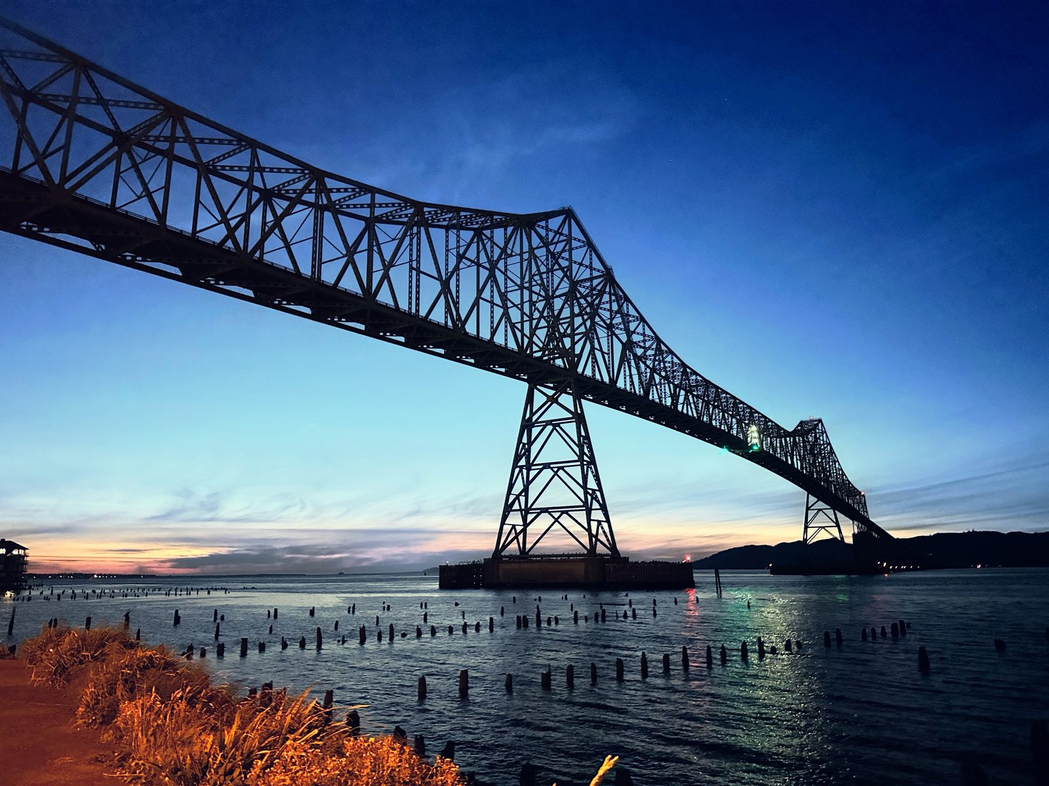
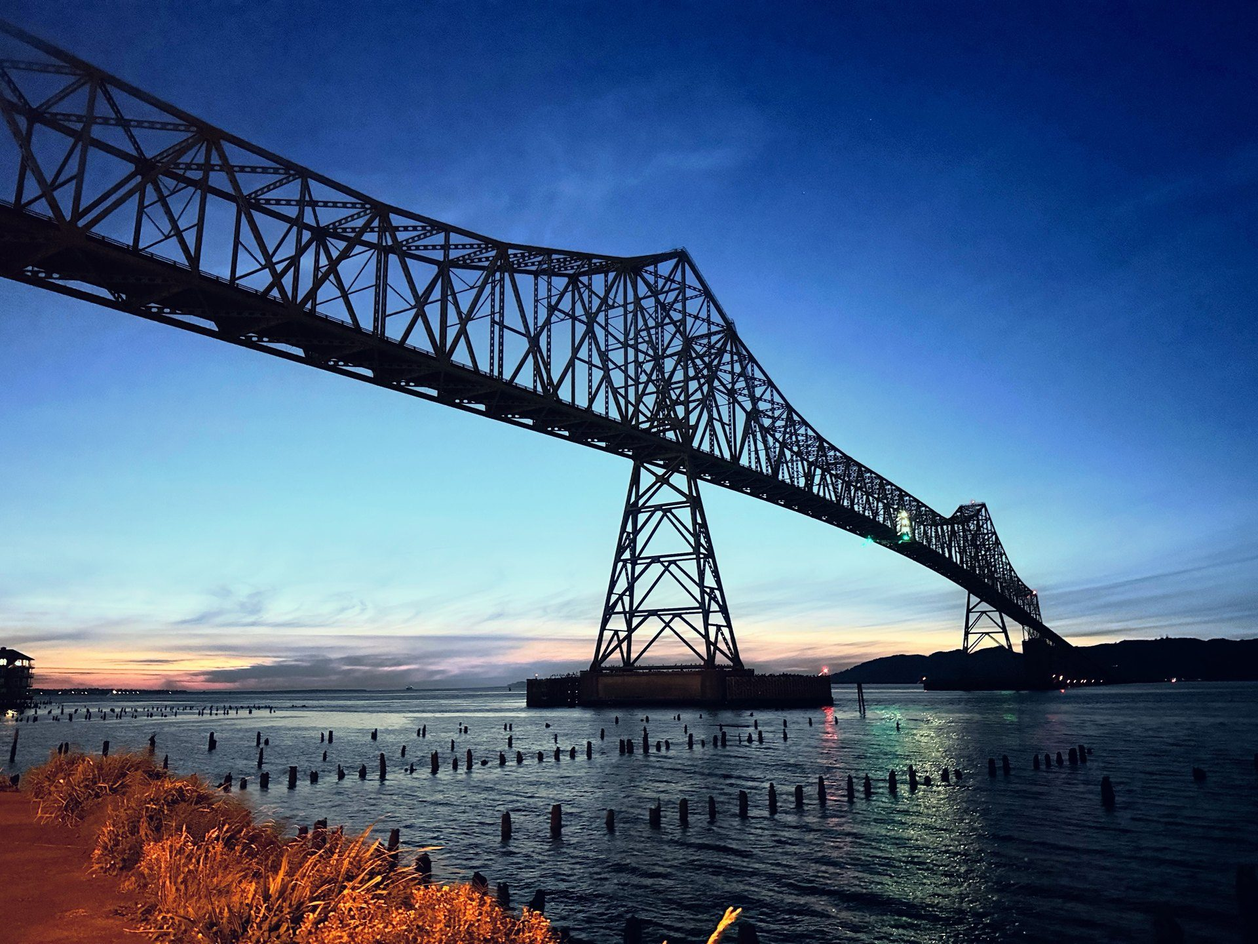
V39 (SW ccl-v39-photo-fix): photo audit — full-viewport backgrounds upgraded 800->1920px from the same Commons-verified originals (ship, Oscar B ferry, courthouse, Rainier dock); bg-dusk-2/4/7 re-rendered at 1920 from pool originals; bg-dusk-5 corrected to the actual USFWS Interstate Bridge sunset i

Changed region(s): [[0.6562, 0.4933, 0.6875, 0.5242], [0.625, 0.4625, 0.6562, 0.4933], [0.2812, 0.925, 0.3125, 0.9558]]

diff --git a/sw.js b/sw.js
@@ -18,7 +18,7 @@
  */
 'use strict';
 
-var VERSION = 'ccl-v38-cascade-phone-thumb'; // v38 = phone thumb fix 2026-11-05 (Travis, from the v37 phone screenshot: the card's 112px side-sliver thumbnail sliced the title text — 'Cascade C…' — and looked broken; phone (≤640px) now swaps via <picture> to a dedicated mobile title-card banner, img/cascade-thumb-mobile.jpg 600x206, stacked from the desktop title card's two fully-readable bands — the real site's board band + the navy title block — shown as a full-width top strip over a slim eyebrow/title/CTA body row, copy line folded away on phone since the banner carries it; desktop ≥641px rendering pixel-unchanged) // v37 = cross-promo shrink 2026-11-05 (Travis, reviewing the v36 screenshots: the Events & More card was far too big — it read like an entire page, not one of the small cards sponsors pay for; the card is now a compact horizontal mini-card, cropped screenshot thumbnail 300x170 left + text right, ~172px tall on desktop, slim thumb on phone; the drawer's separate 'More from Nomad' section is also gone per his follow-up — Cascade is now one tiny muted text link under About in the drawer; footer link unchanged; the card is styled as Cascade's OWN ad unit (deep navy + orange, its type feel) with a purpose-built title-card thumbnail (fresh capture of the real Cascade site + navy title block) so it reads as another site's advertisement, not a piece of CCL; paid sponsor inventory untouched, marquee untouched) // v36 = cross-promo 2026-11-05 (Cascade Controls Jobs, Nomad's other project — three honest house placements: a screenshot card in Events & More below the services directory, a "More from Nomad" drawer entry, and a slim footer link; paid sponsor inventory untouched, marquee untouched) // v35 = V10 corrective 2026-11-05 (the strip slot-width lock, shipped in v34, could engage on a transient under-measurement and lock a slot narrower than its content; slot widths are now derived from the content itself (ruler-measured text in each element's own font + the item's chrome) because Chromium's intrinsic box measurement of the animated flex strip can return half the true width and poison the lock; validation passes only ever grow slots, and the engagement window stretches to 90s for slow data modules) // v34 = V10 2026-11-05 (saver bottom overlap fixed — quiet line + photo credit share one .saver-bottom container that stacks in normal flow at ≤760px and short landscape, so the two-line sponsor line can never cross the cursive credit again; tile stream lifted clear of the taller zone; glance marquee smoothness, diagnosed this time — clone sync no longer rebuilds innerHTML inside the animating layer, strip slot widths are measured at the value's 36ch ceiling and locked identically across both halves so text changes can never resize the track mid-loop, keyframes hold translate3d) // v33 = V9 2026-11-05 (the commute card — Travis's last pre-ship addition, top of Travel above the roads card: pickable county town (St. Helens default) → St. Johns / Downtown Portland / Longview, typical drive time fetched live from the free OSRM service, labelled "Typical drive — no live traffic" EN/ES and never presented as live conditions; picks + per-pair last-good cache in ccl-commute-v1, failed fetches fall back to the cached reading with its checked time; registered in CCLPins as drive-card, plus finder + drawer entries; DESKTOP scroll fix — Travis, from a mid-scroll photo: at ≥900px the tabbar and the green Live view bar no longer stick, they scroll away with the page; the sponsor rail cards stay sticky by his explicit approval, offset 112px → 20px now that the bars don't hold the top; phones untouched) — SHIPPED TO LIVE with the full redesign 2026-11-05 // v32 = V8 fixes 2026-11-05 (hero photo runs CONTINUOUS to the green sticky bar on desktop — the hero gains the tabbar's 57px as bottom padding and the tabbar pulls up over the picture with a transparent band, the four tab pills floating in dark glass; the bone "gray bar" is gone; phones untouched — bottom tab chrome, hero already meets the green bar; masthead pills slimmed ~25-30% above 560px — Display/Dark padding 10px 16px -> 7px 12px, type .92 -> .85rem, clock 1.18 -> 1.02rem, 40px min height kept, v7's 44px phone circles untouched; NO pin discs on the scrolling strip — the .saver-pin buttons the saver module used to grow inside the canonical strip tiles are deleted in app.js + CSS, strip items are icon + label + value only, and answer pinning lives solely in the Community Screensaver card's chips writing the same CCLPins store — verified end-to-end (chip click -> store -> saver stream tile); rails CONFIRMED sticky — .rail-zone already spans each view's full height with position:sticky cards at top:112px, proven this pass with a two-depth geometry probe (cards hold exactly 112px at scrollY 1500 while their container moves the full 1500; the headless pipeline still can't rasterize a scrolled frame — documented since v4); no rail change, no duplicated house cards) // v31 = V7 fixes 2026-11-05 (the Bend band is Mt. HOOD now — U.S. Forest Service public-domain Trillium Lake photo, pool-verified via the Commons API and visually confirmed, replacing the St. Helens shot Travis caught; saver stream tiles at parade scale — ~41vw wide, type x1.45, loop slowed to 150s so the drift stays stately and the tiles no longer all fit across a TV; phone masthead compacts — Display + Dark become matched 44px circular icon buttons at <=560px, labels return on wider screens; dark-mode background audit — More's St. Helens dusk (mud) replaced by the golden-hour Columbia shoreline (bg-dusk-6), every dark background now a river evening) // v30 = V6 refinements 2026-11-05 (masthead Display button — display mode one tap from first paint on every view, same CCLOpenSaver opener as the drawer + Events & More entries; screensaver answers SCROLL — the pinned answers stream right-to-left on the glance strip's duplicated-track technique, values patched in place so the 5s refresh never restarts the stream, one pin or reduced motion stays static; the saver's quiet sponsor line is now a rotation marched by the photos — quietIdx advances once per photo change, sponsor line → photo invitation → blank beat; mobile sponsor spacing — at ≤760px Today's founding panel keeps only the invitation up top, the County Watch + nonprofit house cells move down into the flow before Tonight & Tomorrow and before the County Briefing, moved never duplicated, desktop untouched; Bend run summit pair — the two Government Camp cameras nearest the PASS_POINTS.govcamp anchor by haversine over the snapshot's own lat/lon lead the Mt. Hood section large with their distance from the summit, the rest stay in the strip; photo-top spread, tastefully — the Events card's photo-header pattern reaches the Bend card (Cascade peak band), the fishing answer card (golden-hour boats + fishing-boat-sunset twin) and the services directory (Cannery Pier boardwalk), and photo-behind-text reaches the Community Screensaver card (river-mouth panorama under a bone scrim) and Featured Local (1973 Columbia-mouth sunset behind glass cards) — six treated cards total, utility cards stay clean; directory price $9/mo · $79/yr marked APPROVED in the business plan, UI still price-free for the founding launch) // v29 = micro-business directory 2026-11-05 (business plan §6 Phase 2 addendum: a "Local services" directory in Events & More, below Featured Local — plain hairline rows for one-person services (child care, cleaning, handyman, pet care, yard & garden, tutoring, moving & hauling, other), category chips filter the rows, seeded with the ONE real founding business Oregon Trail Lanes; empty categories carry varied honest "no listings yet — free during the founding launch" states, never invented businesses; the one invitation card + List-your-service CTA ride the sponsor request form (review → publish, no checkout); NO price shown for this tier — the proposed price is PROPOSED in the business plan pending Travis's approval; honesty line in-section: listings are advertisements, not endorsements, check references for in-home services; EN/ES chrome + per-category EN/ES empty states re-rendered on the language toggle) // v28 = photo form live 2026-11-05 (PHOTO_FORM_URL swapped from the placeholder to the real Google Form) // v27 = v5 revision 2026-11-05 (clean hero — photo + name + welcome line only, chips/tagline/promise retired; the courthouse logo is the menu button opening a frosted slide-out drawer with every view + section jump, screensaver/sponsor entries and the Share-your-county-photo invitation; pins unified onto the ONE generic store window.CCLPins / ccl-pins-v1 — pin any card in any view and a LIVE COPY renders at the top of Today, originals never move; PWA finish — completed manifest (bone/forest, maskable courthouse icon), favicon set + apple metas + per-theme theme-color, ONE dismissible install card in Events & More; courthouse logo replaces the pine as the brand mark everywhere; saver fix — long Next Event names step down in size and wrap whole instead of ellipsizing) // v26 = Community Screensaver 2026-11-05 (ambient display mode: community photo pool crossfading slowly full-screen — the one place photo cycling belongs — big clock/date, pinned live answers in across-the-room type, unattended-safe, ?display=1 TV bookmark; pins on the glance strip items + Events & More card chips, localStorage ccl-saver-pins-v1; photo submissions via PHOTO_FORM_URL placeholder + human review gate, pool in data/community-photos.json) // v25 = v4 tide-glance correction 2026-11-05 (the strip's river item leads with the tide in plain words — "Incoming tide · High 2:08 PM" from the same NOAA St. Helens predictions the tides card loads; the Port Westward gauge level drops to the sub-line; tile now links to the tides card; EN/ES both) // v24 = v4 revision 2026-11-05 (theme toggle moved beside the clock; strip smoothness — backdrop blur removed from the animated strip, right-sized clones, signature-batched sync; first-paint pass — reveal never hides on-screen cards, non-Today backgrounds lazy-attached; Today backgrounds de-bridged — Rainier dock day / river-mouth panorama dusk, hero keeps the bridge; sponsor rails on Today + Events & More + a top sponsor card on Events & More; green bar reads "Live view"; natural stagger — v2 offset margins deleted, pairs take natural heights, Travel/Outdoors balanced columns) // v23 = v3 revision 2026-11-05 (continuous full-width glance strip; calm per-view photo background per the portfolio pattern; glass cards unchanged) // v22 = v2 revision 2026-11-05 (full-page photo background + all-glass cards + staggered pairs) // v21 = Redesign prototype 2026-11-05 (fall palette, ticker, sponsor system, dark mode — sandbox preview only) // v20 = Sponsor form swap 2026-11-05 (SPONSOR_FORM_URL live in app.js — the founding-sponsor Google Form replaces the interim mailto button in About/support); v19 = WS-1d follow-up 2 2026-11-04 (map-tap close for the layers panel listens on the map container in the CAPTURE phase — the v18 bubble-phase listener was measured live still failing when the tap landed on a marker, because Leaflet stops marker clicks from bubbling; capture reaches the container first); v18 = WS-1d follow-up (DOM-level map-tap close, bubble phase — superseded by v19); v17 = WS-1 2026-11-04 (school-closures board — curated data/schools.json, dormant-ready, EN+ES dynamic status labels; About / founding-sponsor interest section — SPONSOR_FORM_URL config in app.js, interim mailto capture, nothing for sale; accessibility pass from a live Lighthouse run (a11y 0.92): --accent-2 darkened #0d8a5f→#0b7a52 for contrast, role=tablist misuse fixed to role=group + aria-pressed sync on the five toggle groups, lang-btn label/name mismatch removed, chip/button tap targets raised to ≥36px; WS-1d same publish: map layers panel collapsed by default — Leaflet collapsed:true + tap-map / tap-toggle-again close wiring, mobile caps ≤70vw + max-height scroll + compact rows, 44px toggle); v16 = Fishing answer card 5-day pick 2026-11-04 (When row: Today..+4 with weekday+date chips in America/Los_Angeles; days +2..+4 are labeled outlooks — salmon: heatModel at the future date with a ×0.8/day-beyond-tomorrow confidence decay on the stretch score before the tracker's own thresholds, outlook why from today's counts; steelhead: the same index in forecast mode — NWS QPF through the rain-to-river mapping for flow/clarity on every river kind, that day's forecast for cold/weather — why led by "Early call from the forecast"; Forecast/Outlook tag beside the pill; NOAA current predictions fetched 6 days out so best windows quote for +2..+4; ES chip chrome; index card, tracker gate/maths for today, steelhead weights and day-plan segment logic unchanged); v15 = strip label fit stages 2026-11-04 (the anchor fit check is now staged and 2D: full labels → John Day drops to its own line (suffixes kept) → suffixes shed → ticks only; measured live at 360px: one-line labels collide ~55px, bare names ~11px, the split layout fits; the check also re-runs when the Outdoors view is shown, since the strip renders inside a hidden view where it cannot be measured); v14 = strip label fit fix 2026-11-04 (the anchor fit check sheds the river-mile suffixes before dropping labels; same build as v13 otherwise); v13 = Fishing answer card + Salmon Tracker declutter 2026-11-04 (intent-first answer card at the top of the fishing section: Salmon/Steelhead × stretch-or-river × Today/Tomorrow chips, one GOOD/FAIR/POOR glance composed only from the tracker surface, the steelhead index's own per-day verdicts, and the day plan's best segment; choices persist; tracker card decluttered — intro + basis moved into the Why expander, verdict face shortened to one sentence, heat strip labels cut to three anchors with a mechanical no-overlap fit check, towns as bare ticks, one county zone label, one-line legend, gray=no-signal caption kept; day-plan source notes shortened; EN+ES chrome); v12 = Steelhead Day Index 2026-11-04 (Outdoors fishing section: per-river Good/Fair/Poor day for the Wilson, Nehalem, NF Nehalem, Big Creek, Gnat Creek, Klaskanine, Clatskanie and Scappoose from run timing, USGS gauge flow + typical range, MRMS basin-rain clarity model, NWS freeze/weather factors, first light + general Oregon angling-hours window; fetcher steelhead.json full-run only; EN+ES chrome); v11 = Facebook public events merge 2026-11-04 (data/fb-events.json from the FB events checker merges client-side into the calendar events — calendar wins title+date collisions; FB-only rows wear a Facebook tag and link to the event page; Tonight & tomorrow + glance tile merge too; EN+ES source note); v10 = County Briefing visual front 2026-11-04 (briefing card renders designed rows from the same structured pass that builds the copied note; the raw text box is gone — copy/share/speech text byte-identical; EN+ES note wording adjusted); v9 = Day-plan copy polish 2026-11-04 (anchor-strong wording follows the actual sequence; tomorrow line merges same-method runs); v8 = Salmon Tracker UX build + GoatCounter beacon 2026-11-04 (verdict-first GOOD/FAIR/SLOW for the home stretch, single-hue heat strip + toggleable map heat layer, one-tap Why, method-switching day plan from NOAA CO-OPS current predictions at Walker Island with tide-curve fallback; invisible GoatCounter analytics beacon; EN+ES chrome); v6 = Fish counts + Salmon Tracker 2026-11-04 (Bonneville/The Dalles/John Day counts card + measured-window wave tracker, Outdoors view; EN+ES chrome); v5 = Build batch 2026-11-04 (My Route camera strip, incident honesty + verdict scope fix, route-ahead forecast, ships passing-soon ETAs, Bend run pass card; EN+ES); v4 = Copy sweep 2026-11-04 (privacy-reassurance boilerplate removed, EN+ES); v3 = Feature audit 2026-11-04 (Near-me popup fix); v2 = Redesign (view navigation + light modern theme)
+var VERSION = 'ccl-v39-photo-fix'; // v39 = photo audit 2026-11-05 (Travis waived review: license/caption/quality/crop pass over every live image — full-viewport backgrounds upgraded 800->1920px from the SAME Commons-verified originals (ship, Oscar B, courthouse, Rainier dock); bg-dusk-2/4/7 re-rendered at 1920 from pool originals; bg-dusk-5 CORRECTED — the file was actually a second crop of the Rennett Stowe fishing-boat photo while its screensaver credit said USFWS/Kelley Point; it now IS the USFWS Mallard/Interstate Bridge sunset (public domain) its credit and the spec describe; orphaned images removed: cascade-controls-jobs-home.jpg (superseded by v38 thumbs), bg-day-2.jpg, icon-logo-pine.png) // v38 = phone thumb fix 2026-11-05 (Travis, from the v37 phone screenshot: the card's 112px side-sliver thumbnail sliced the title text — 'Cascade C…' — and looked broken; phone (≤640px) now swaps via <picture> to a dedicated mobile title-card banner, img/cascade-thumb-mobile.jpg 600x206, stacked from the desktop title card's two fully-readable bands — the real site's board band + the navy title block — shown as a full-width top strip over a slim eyebrow/title/CTA body row, copy line folded away on phone since the banner carries it; desktop ≥641px rendering pixel-unchanged) // v37 = cross-promo shrink 2026-11-05 (Travis, reviewing the v36 screenshots: the Events & More card was far too big — it read like an entire page, not one of the small cards sponsors pay for; the card is now a compact horizontal mini-card, cropped screenshot thumbnail 300x170 left + text right, ~172px tall on desktop, slim thumb on phone; the drawer's separate 'More from Nomad' section is also gone per his follow-up — Cascade is now one tiny muted text link under About in the drawer; footer link unchanged; the card is styled as Cascade's OWN ad unit (deep navy + orange, its type feel) with a purpose-built title-card thumbnail (fresh capture of the real Cascade site + navy title block) so it reads as another site's advertisement, not a piece of CCL; paid sponsor inventory untouched, marquee untouched) // v36 = cross-promo 2026-11-05 (Cascade Controls Jobs, Nomad's other project — three honest house placements: a screenshot card in Events & More below the services directory, a "More from Nomad" drawer entry, and a slim footer link; paid sponsor inventory untouched, marquee untouched) // v35 = V10 corrective 2026-11-05 (the strip slot-width lock, shipped in v34, could engage on a transient under-measurement and lock a slot narrower than its content; slot widths are now derived from the content itself (ruler-measured text in each element's own font + the item's chrome) because Chromium's intrinsic box measurement of the animated flex strip can return half the true width and poison the lock; validation passes only ever grow slots, and the engagement window stretches to 90s for slow data modules) // v34 = V10 2026-11-05 (saver bottom overlap fixed — quiet line + photo credit share one .saver-bottom container that stacks in normal flow at ≤760px and short landscape, so the two-line sponsor line can never cross the cursive credit again; tile stream lifted clear of the taller zone; glance marquee smoothness, diagnosed this time — clone sync no longer rebuilds innerHTML inside the animating layer, strip slot widths are measured at the value's 36ch ceiling and locked identically across both halves so text changes can never resize the track mid-loop, keyframes hold translate3d) // v33 = V9 2026-11-05 (the commute card — Travis's last pre-ship addition, top of Travel above the roads card: pickable county town (St. Helens default) → St. Johns / Downtown Portland / Longview, typical drive time fetched live from the free OSRM service, labelled "Typical drive — no live traffic" EN/ES and never presented as live conditions; picks + per-pair last-good cache in ccl-commute-v1, failed fetches fall back to the cached reading with its checked time; registered in CCLPins as drive-card, plus finder + drawer entries; DESKTOP scroll fix — Travis, from a mid-scroll photo: at ≥900px the tabbar and the green Live view bar no longer stick, they scroll away with the page; the sponsor rail cards stay sticky by his explicit approval, offset 112px → 20px now that the bars don't hold the top; phones untouched) — SHIPPED TO LIVE with the full redesign 2026-11-05 // v32 = V8 fixes 2026-11-05 (hero photo runs CONTINUOUS to the green sticky bar on desktop — the hero gains the tabbar's 57px as bottom padding and the tabbar pulls up over the picture with a transparent band, the four tab pills floating in dark glass; the bone "gray bar" is gone; phones untouched — bottom tab chrome, hero already meets the green bar; masthead pills slimmed ~25-30% above 560px — Display/Dark padding 10px 16px -> 7px 12px, type .92 -> .85rem, clock 1.18 -> 1.02rem, 40px min height kept, v7's 44px phone circles untouched; NO pin discs on the scrolling strip — the .saver-pin buttons the saver module used to grow inside the canonical strip tiles are deleted in app.js + CSS, strip items are icon + label + value only, and answer pinning lives solely in the Community Screensaver card's chips writing the same CCLPins store — verified end-to-end (chip click -> store -> saver stream tile); rails CONFIRMED sticky — .rail-zone already spans each view's full height with position:sticky cards at top:112px, proven this pass with a two-depth geometry probe (cards hold exactly 112px at scrollY 1500 while their container moves the full 1500; the headless pipeline still can't rasterize a scrolled frame — documented since v4); no rail change, no duplicated house cards) // v31 = V7 fixes 2026-11-05 (the Bend band is Mt. HOOD now — U.S. Forest Service public-domain Trillium Lake photo, pool-verified via the Commons API and visually confirmed, replacing the St. Helens shot Travis caught; saver stream tiles at parade scale — ~41vw wide, type x1.45, loop slowed to 150s so the drift stays stately and the tiles no longer all fit across a TV; phone masthead compacts — Display + Dark become matched 44px circular icon buttons at <=560px, labels return on wider screens; dark-mode background audit — More's St. Helens dusk (mud) replaced by the golden-hour Columbia shoreline (bg-dusk-6), every dark background now a river evening) // v30 = V6 refinements 2026-11-05 (masthead Display button — display mode one tap from first paint on every view, same CCLOpenSaver opener as the drawer + Events & More entries; screensaver answers SCROLL — the pinned answers stream right-to-left on the glance strip's duplicated-track technique, values patched in place so the 5s refresh never restarts the stream, one pin or reduced motion stays static; the saver's quiet sponsor line is now a rotation marched by the photos — quietIdx advances once per photo change, sponsor line → photo invitation → blank beat; mobile sponsor spacing — at ≤760px Today's founding panel keeps only the invitation up top, the County Watch + nonprofit house cells move down into the flow before Tonight & Tomorrow and before the County Briefing, moved never duplicated, desktop untouched; Bend run summit pair — the two Government Camp cameras nearest the PASS_POINTS.govcamp anchor by haversine over the snapshot's own lat/lon lead the Mt. Hood section large with their distance from the summit, the rest stay in the strip; photo-top spread, tastefully — the Events card's photo-header pattern reaches the Bend card (Cascade peak band), the fishing answer card (golden-hour boats + fishing-boat-sunset twin) and the services directory (Cannery Pier boardwalk), and photo-behind-text reaches the Community Screensaver card (river-mouth panorama under a bone scrim) and Featured Local (1973 Columbia-mouth sunset behind glass cards) — six treated cards total, utility cards stay clean; directory price $9/mo · $79/yr marked APPROVED in the business plan, UI still price-free for the founding launch) // v29 = micro-business directory 2026-11-05 (business plan §6 Phase 2 addendum: a "Local services" directory in Events & More, below Featured Local — plain hairline rows for one-person services (child care, cleaning, handyman, pet care, yard & garden, tutoring, moving & hauling, other), category chips filter the rows, seeded with the ONE real founding business Oregon Trail Lanes; empty categories carry varied honest "no listings yet — free during the founding launch" states, never invented businesses; the one invitation card + List-your-service CTA ride the sponsor request form (review → publish, no checkout); NO price shown for this tier — the proposed price is PROPOSED in the business plan pending Travis's approval; honesty line in-section: listings are advertisements, not endorsements, check references for in-home services; EN/ES chrome + per-category EN/ES empty states re-rendered on the language toggle) // v28 = photo form live 2026-11-05 (PHOTO_FORM_URL swapped from the placeholder to the real Google Form) // v27 = v5 revision 2026-11-05 (clean hero — photo + name + welcome line only, chips/tagline/promise retired; the courthouse logo is the menu button opening a frosted slide-out drawer with every view + section jump, screensaver/sponsor entries and the Share-your-county-photo invitation; pins unified onto the ONE generic store window.CCLPins / ccl-pins-v1 — pin any card in any view and a LIVE COPY renders at the top of Today, originals never move; PWA finish — completed manifest (bone/forest, maskable courthouse icon), favicon set + apple metas + per-theme theme-color, ONE dismissible install card in Events & More; courthouse logo replaces the pine as the brand mark everywhere; saver fix — long Next Event names step down in size and wrap whole instead of ellipsizing) // v26 = Community Screensaver 2026-11-05 (ambient display mode: community photo pool crossfading slowly full-screen — the one place photo cycling belongs — big clock/date, pinned live answers in across-the-room type, unattended-safe, ?display=1 TV bookmark; pins on the glance strip items + Events & More card chips, localStorage ccl-saver-pins-v1; photo submissions via PHOTO_FORM_URL placeholder + human review gate, pool in data/community-photos.json) // v25 = v4 tide-glance correction 2026-11-05 (the strip's river item leads with the tide in plain words — "Incoming tide · High 2:08 PM" from the same NOAA St. Helens predictions the tides card loads; the Port Westward gauge level drops to the sub-line; tile now links to the tides card; EN/ES both) // v24 = v4 revision 2026-11-05 (theme toggle moved beside the clock; strip smoothness — backdrop blur removed from the animated strip, right-sized clones, signature-batched sync; first-paint pass — reveal never hides on-screen cards, non-Today backgrounds lazy-attached; Today backgrounds de-bridged — Rainier dock day / river-mouth panorama dusk, hero keeps the bridge; sponsor rails on Today + Events & More + a top sponsor card on Events & More; green bar reads "Live view"; natural stagger — v2 offset margins deleted, pairs take natural heights, Travel/Outdoors balanced columns) // v23 = v3 revision 2026-11-05 (continuous full-width glance strip; calm per-view photo background per the portfolio pattern; glass cards unchanged) // v22 = v2 revision 2026-11-05 (full-page photo background + all-glass cards + staggered pairs) // v21 = Redesign prototype 2026-11-05 (fall palette, ticker, sponsor system, dark mode — sandbox preview only) // v20 = Sponsor form swap 2026-11-05 (SPONSOR_FORM_URL live in app.js — the founding-sponsor Google Form replaces the interim mailto button in About/support); v19 = WS-1d follow-up 2 2026-11-04 (map-tap close for the layers panel listens on the map container in the CAPTURE phase — the v18 bubble-phase listener was measured live still failing when the tap landed on a marker, because Leaflet stops marker clicks from bubbling; capture reaches the container first); v18 = WS-1d follow-up (DOM-level map-tap close, bubble phase — superseded by v19); v17 = WS-1 2026-11-04 (school-closures board — curated data/schools.json, dormant-ready, EN+ES dynamic status labels; About / founding-sponsor interest section — SPONSOR_FORM_URL config in app.js, interim mailto capture, nothing for sale; accessibility pass from a live Lighthouse run (a11y 0.92): --accent-2 darkened #0d8a5f→#0b7a52 for contrast, role=tablist misuse fixed to role=group + aria-pressed sync on the five toggle groups, lang-btn label/name mismatch removed, chip/button tap targets raised to ≥36px; WS-1d same publish: map layers panel collapsed by default — Leaflet collapsed:true + tap-map / tap-toggle-again close wiring, mobile caps ≤70vw + max-height scroll + compact rows, 44px toggle); v16 = Fishing answer card 5-day pick 2026-11-04 (When row: Today..+4 with weekday+date chips in America/Los_Angeles; days +2..+4 are labeled outlooks — salmon: heatModel at the future date with a ×0.8/day-beyond-tomorrow confidence decay on the stretch score before the tracker's own thresholds, outlook why from today's counts; steelhead: the same index in forecast mode — NWS QPF through the rain-to-river mapping for flow/clarity on every river kind, that day's forecast for cold/weather — why led by "Early call from the forecast"; Forecast/Outlook tag beside the pill; NOAA current predictions fetched 6 days out so best windows quote for +2..+4; ES chip chrome; index card, tracker gate/maths for today, steelhead weights and day-plan segment logic unchanged); v15 = strip label fit stages 2026-11-04 (the anchor fit check is now staged and 2D: full labels → John Day drops to its own line (suffixes kept) → suffixes shed → ticks only; measured live at 360px: one-line labels collide ~55px, bare names ~11px, the split layout fits; the check also re-runs when the Outdoors view is shown, since the strip renders inside a hidden view where it cannot be measured); v14 = strip label fit fix 2026-11-04 (the anchor fit check sheds the river-mile suffixes before dropping labels; same build as v13 otherwise); v13 = Fishing answer card + Salmon Tracker declutter 2026-11-04 (intent-first answer card at the top of the fishing section: Salmon/Steelhead × stretch-or-river × Today/Tomorrow chips, one GOOD/FAIR/POOR glance composed only from the tracker surface, the steelhead index's own per-day verdicts, and the day plan's best segment; choices persist; tracker card decluttered — intro + basis moved into the Why expander, verdict face shortened to one sentence, heat strip labels cut to three anchors with a mechanical no-overlap fit check, towns as bare ticks, one county zone label, one-line legend, gray=no-signal caption kept; day-plan source notes shortened; EN+ES chrome); v12 = Steelhead Day Index 2026-11-04 (Outdoors fishing section: per-river Good/Fair/Poor day for the Wilson, Nehalem, NF Nehalem, Big Creek, Gnat Creek, Klaskanine, Clatskanie and Scappoose from run timing, USGS gauge flow + typical range, MRMS basin-rain clarity model, NWS freeze/weather factors, first light + general Oregon angling-hours window; fetcher steelhead.json full-run only; EN+ES chrome); v11 = Facebook public events merge 2026-11-04 (data/fb-events.json from the FB events checker merges client-side into the calendar events — calendar wins title+date collisions; FB-only rows wear a Facebook tag and link to the event page; Tonight & tomorrow + glance tile merge too; EN+ES source note); v10 = County Briefing visual front 2026-11-04 (briefing card renders designed rows from the same structured pass that builds the copied note; the raw text box is gone — copy/share/speech text byte-identical; EN+ES note wording adjusted); v9 = Day-plan copy polish 2026-11-04 (anchor-strong wording follows the actual sequence; tomorrow line merges same-method runs); v8 = Salmon Tracker UX build + GoatCounter beacon 2026-11-04 (verdict-first GOOD/FAIR/SLOW for the home stretch, single-hue heat strip + toggleable map heat layer, one-tap Why, method-switching day plan from NOAA CO-OPS current predictions at Walker Island with tide-curve fallback; invisible GoatCounter analytics beacon; EN+ES chrome); v6 = Fish counts + Salmon Tracker 2026-11-04 (Bonneville/The Dalles/John Day counts card + measured-window wave tracker, Outdoors view; EN+ES chrome); v5 = Build batch 2026-11-04 (My Route camera strip, incident honesty + verdict scope fix, route-ahead forecast, ships passing-soon ETAs, Bend run pass card; EN+ES); v4 = Copy sweep 2026-11-04 (privacy-reassurance boilerplate removed, EN+ES); v3 = Feature audit 2026-11-04 (Near-me popup fix); v2 = Redesign (view navigation + light modern theme)
 var STATIC_CACHE = VERSION + '-static';
 var DATA_CACHE = VERSION + '-data';
 var LIB_CACHE = VERSION + '-lib';
